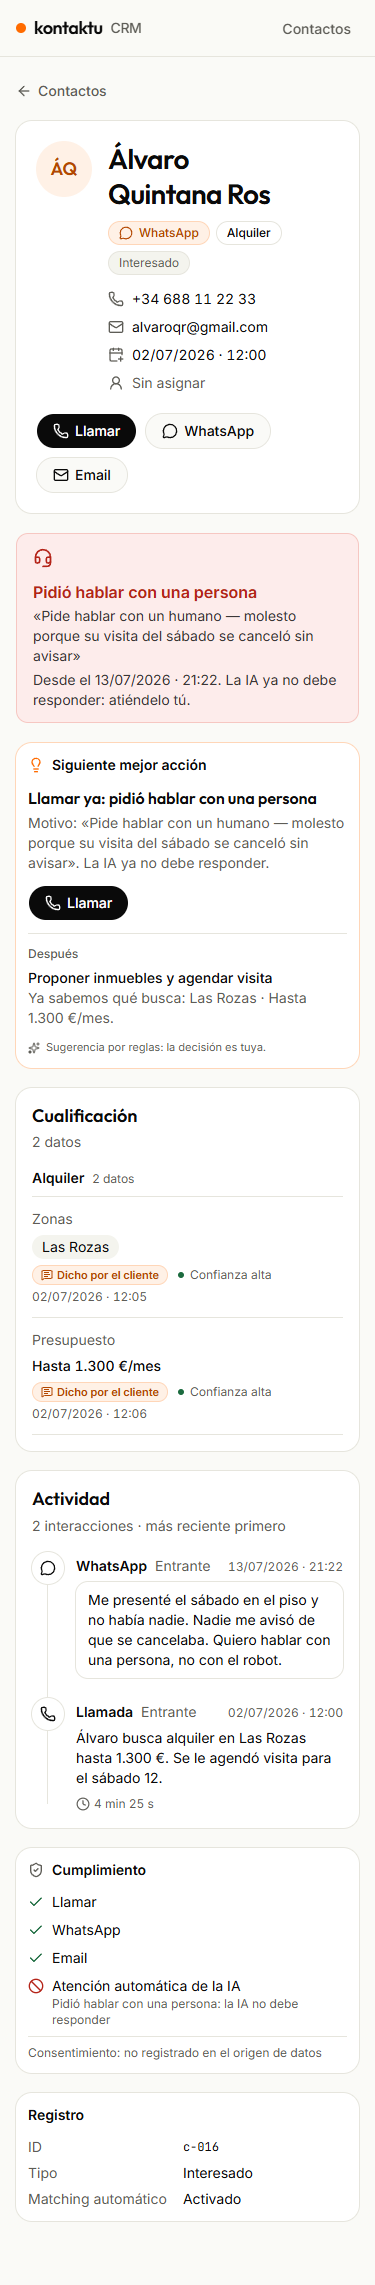
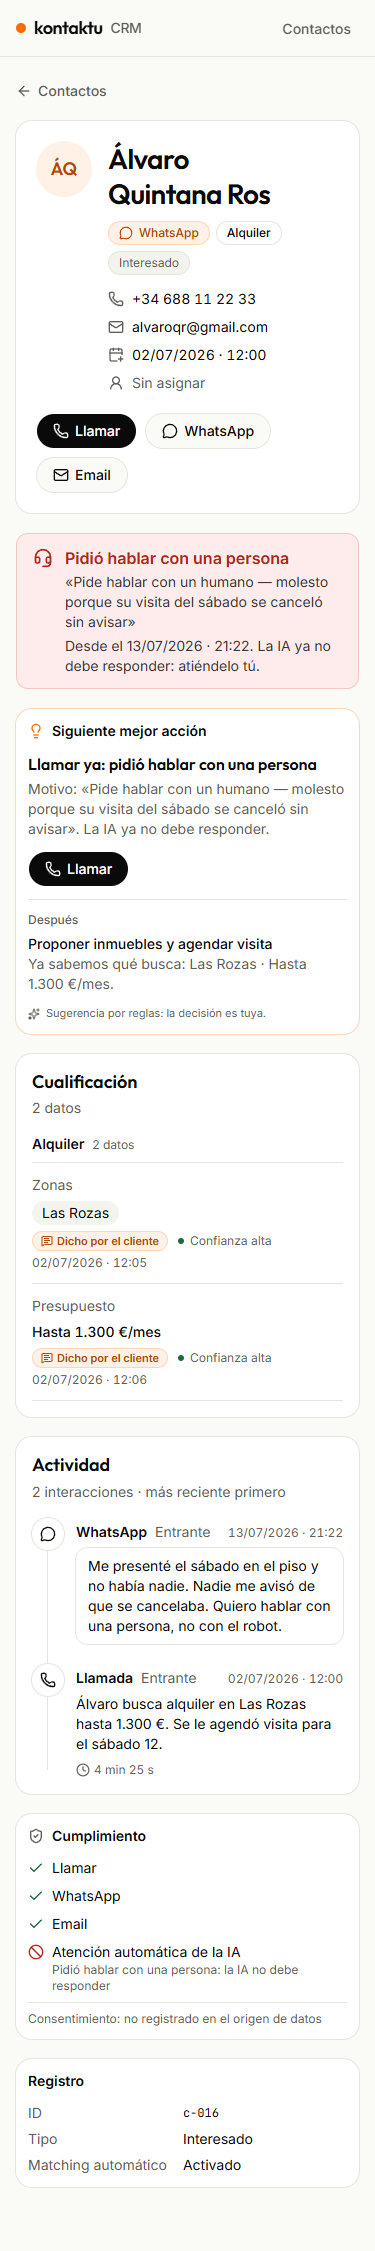
fix(ui): avisos con el icono junto al título en móvil y nombre del canal respetado en los motivos

diff --git a/src/domain/next-action/rules.ts b/src/domain/next-action/rules.ts
@@ -36,10 +36,10 @@ const PHONE_FIRST: RuleOutcome["channels"] = ["call", "whatsapp", "email"];
  * Canales asíncronos: un mensaje entrante sin respuesta posterior está pendiente.
  * Una llamada entrante no: es una conversación que ya se atendió.
  */
-const REPLY_CHANNEL: Partial<Record<ChannelKind, RuleOutcome["channels"]>> = {
-  whatsapp: ["whatsapp", "call", "email"],
-  email: ["email", "call", "whatsapp"],
-  web_form: ["email", "call", "whatsapp"],
+const REPLY_CHANNEL: Partial<Record<ChannelKind, { channels: RuleOutcome["channels"]; phrase: string }>> = {
+  whatsapp: { channels: ["whatsapp", "call", "email"], phrase: "Escribió por WhatsApp" },
+  email: { channels: ["email", "call", "whatsapp"], phrase: "Escribió por email" },
+  web_form: { channels: ["email", "call", "whatsapp"], phrase: "Envió el formulario web" },
 };
 
 export const RULES: NextActionRule[] = [
@@ -106,10 +106,11 @@ export const RULES: NextActionRule[] = [
     },
     build: ({ contact }) => {
       const last = contact.timeline[0];
+      const reply = last ? REPLY_CHANNEL[last.channel.kind] : undefined;
       return {
         title: "Responder a su último mensaje",
-        reason: last ? `Escribió por ${last.channel.label.toLowerCase()} el ${last.at.display} y no tiene respuesta.` : "",
-        channels: (last && REPLY_CHANNEL[last.channel.kind]) ?? PHONE_FIRST,
+        reason: last && reply ? `${reply.phrase} el ${last.at.display} y no tiene respuesta.` : "",
+        channels: reply?.channels ?? PHONE_FIRST,
       };
     },
   },

diff --git a/src/features/shared/status-banner.tsx b/src/features/shared/status-banner.tsx
@@ -28,14 +28,14 @@ export function StatusBanner({
   return (
     <div
       role={tone === "danger" ? "alert" : "status"}
-      className={cn("flex flex-col gap-3 rounded-lg border px-4 py-3 sm:flex-row sm:items-start", TONES[tone])}
+      className={cn("flex flex-wrap items-start gap-x-3 gap-y-2 rounded-lg border px-4 py-3", TONES[tone])}
     >
       <Icon aria-hidden="true" className="mt-0.5 size-5 shrink-0" />
-      <div className="min-w-0 flex-1">
+      <div className="min-w-0 flex-1 basis-48">
         <p className="font-semibold">{title}</p>
         {children ? <div className="mt-0.5 text-sm text-foreground/80">{children}</div> : null}
       </div>
-      {action ? <div className="shrink-0">{action}</div> : null}
+      {action ? <div className="shrink-0 max-sm:w-full max-sm:pl-8">{action}</div> : null}
     </div>
   );
 }

diff --git a/src/domain/stories.test.ts b/src/domain/stories.test.ts
@@ -150,6 +150,12 @@ describe("#4 Siguiente mejor acción: tabla de docs/decisiones.md §5 (D23)", ()
     expect(actions.map((a) => a.channel)).toEqual(channels);
   });
 
+  it("el motivo respeta el nombre del canal (WhatsApp, no «whatsapp»)", () => {
+    const reply = insightsOf("c-004").actions.find((a) => a.ruleId === "unanswered-inbound");
+    expect(reply?.reason).toBe("Escribió por WhatsApp el 11/07/2026 · 22:22 y no tiene respuesta.");
+    expect(insightsOf("c-005").actions[0]?.reason).toBe("Envió el formulario web el 11/07/2026 · 18:42 y no tiene respuesta.");
+  });
+
   it("cada sugerencia explica por qué", () => {
     for (const c of org) {
       for (const action of insightsOf(c.id).actions) expect(action.reason.length).toBeGreaterThan(10);
